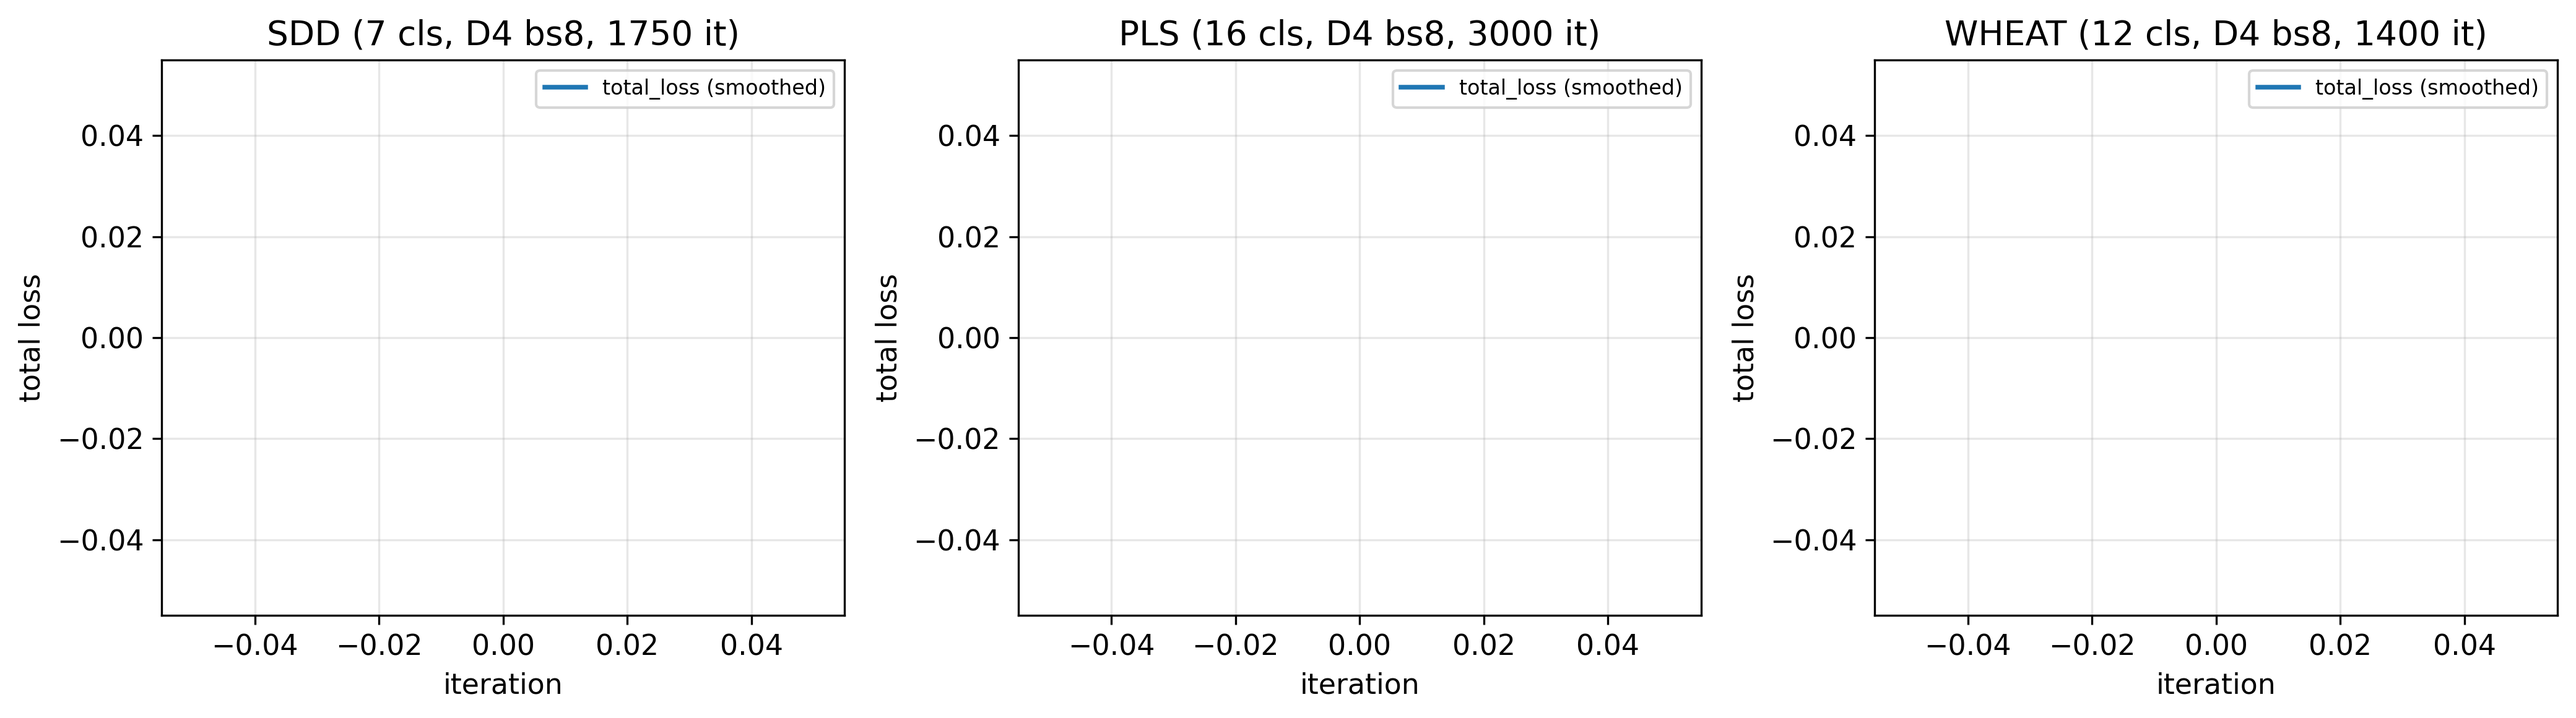
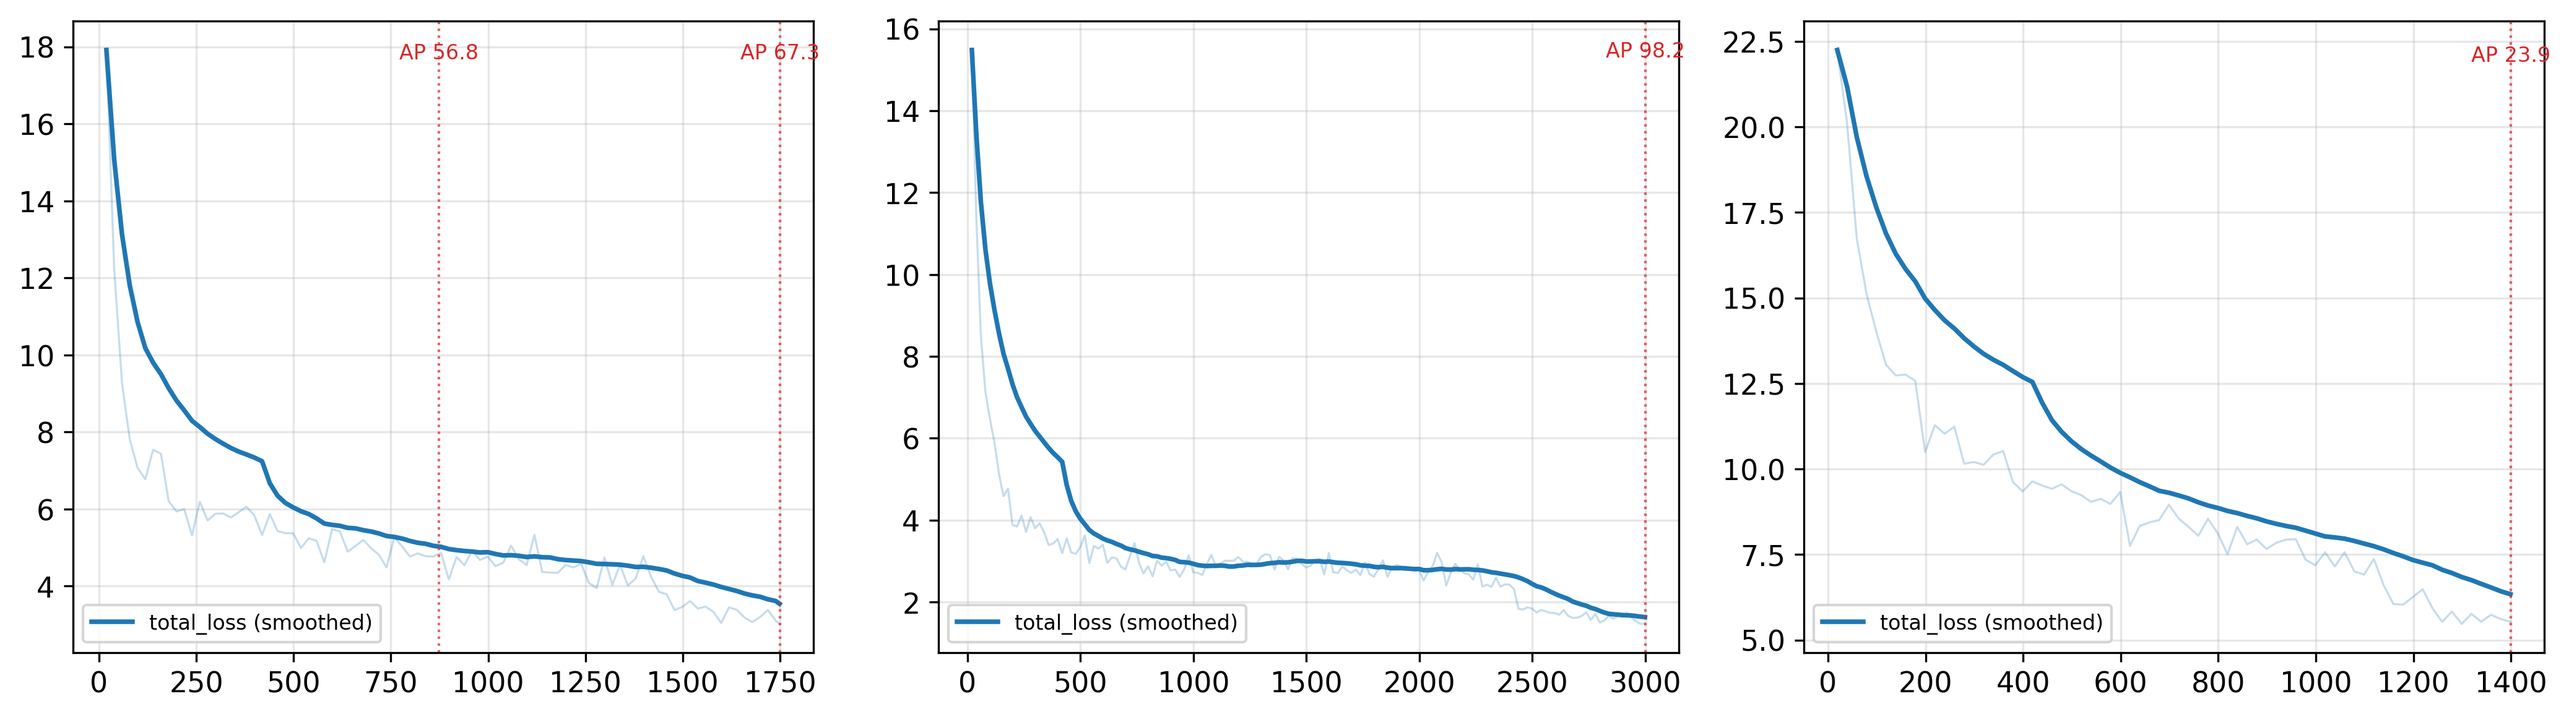
fix(fig): read metrics.json instead of text log.txt; fig2/fig3 now have curves + eval AP annotations

diff --git a/scripts/make_figures.py b/scripts/make_figures.py
@@ -61,8 +61,12 @@ fig.savefig(f"{FIG}/fig1_ap_nfe_curves.png", bbox_inches="tight")
 print("fig1 saved")
 
 # ============ 图 3：训练 LOSS 曲线对比（D4 策略三个数据集 + bs2 对照） ============
-def load_metrics(path):
-    """metrics.json 每行一个 JSON 记录；time>0 过滤 eval 行。"""
+def load_metrics(output_dir):
+    """读 detectron2 的 metrics.json（每行一个 JSON 记录）。
+
+    注意：log.txt 是纯文本日志（无 JSON），fig3 首版误读导致空图。
+    """
+    path = os.path.join(output_dir, "metrics.json")
     its, losses, evals = [], [], []
     with open(path) as f:
         for line in f:
@@ -83,30 +87,31 @@ def smooth(v, k=20):
 
 fig, axes = plt.subplots(1, 3, figsize=(14, 4))
 specs = [
-    ("SDD (7 cls, D4 bs8, 1750 it)", f"{ROOT}/output/lab/sdd.res50.bs8/log.txt"),
-    ("PLS (16 cls, D4 bs8, 3000 it)", f"{ROOT}/output/lab/pls.res50.bs8/log.txt"),
-    ("WHEAT (12 cls, D4 bs8, 1400 it)", f"{ROOT}/output/lab/wheat.res50.bs8/log.txt"),
+    ("SDD (7 cls, D4 bs8, 1750 it)", f"{ROOT}/output/lab/sdd.res50.bs8"),
+    ("PLS (16 cls, D4 bs8, 3000 it)", f"{ROOT}/output/lab/pls.res50.bs8"),
+    ("WHEAT (12 cls, D4 bs8, 1400 it)", f"{ROOT}/output/lab/wheat.res50.bs8"),
 ]
 for ax, (title, p) in zip(axes, specs):
-    if not os.path.exists(p):
+    if not os.path.exists(os.path.join(p, "metrics.json")):
         ax.set_title(title + "\n(missing)"); continue
     its, losses, evals = load_metrics(p)
     ax.plot(its, losses, alpha=0.25, lw=0.8, color="#1f77b4")
     ax.plot(its, smooth(losses), lw=1.8, color="#1f77b4", label="total_loss (smoothed)")
+    # eval AP 标注：AP 与 loss 量级不同，画在轴顶部（竖线 + 文本）
     for it, vap in evals:
-        ax.axvline(it, color="#d62728", ls=":", lw=0.8, alpha=0.6)
-        ax.annotate(f"AP {vap:.1f}", (it, ax.get_ylim()[1]), fontsize=7,
-                    rotation=90, va="top", color="#d62728")
-    ax.set_title(title); ax.set_xlabel("iteration"); ax.set_ylabel("total loss")
+        ax.axvline(it, color="#d62728", ls=":", lw=1.0, alpha=0.7)
+        ax.text(it, ax.get_ylim()[1] * 0.97, f"AP {vap:.1f}", fontsize=8,
+                color="#d62728", ha="center", va="top")
     ax.grid(alpha=0.3); ax.legend(fontsize=8)
 fig.tight_layout()
 fig.savefig(f"{FIG}/fig2_training_loss.png", bbox_inches="tight")
 print("fig2 saved")
 
 # ============ 图 4：bs2(v1.0) vs bs8(D4) 训练对照（SDD） ============
-p_old = f"{ROOT}/output/lab/sdd.res50/log.txt"
-p_new = f"{ROOT}/output/lab/sdd.res50.bs8/log.txt"
-if os.path.exists(p_old) and os.path.exists(p_new):
+p_old = f"{ROOT}/output/lab/sdd.res50"
+p_new = f"{ROOT}/output/lab/sdd.res50.bs8"
+if os.path.exists(os.path.join(p_old, "metrics.json")) and os.path.exists(
+        os.path.join(p_new, "metrics.json")):
     fig, ax = plt.subplots(figsize=(7, 4.2))
     i1, l1, e1 = load_metrics(p_old)
     i2, l2, e2 = load_metrics(p_new)
@@ -119,7 +124,7 @@ if os.path.exists(p_old) and os.path.exists(p_new):
     for it, vap in e2:
         ax.annotate(f"{vap:.1f}", (it, vap), fontsize=8, color="#d62728",
                     xytext=(4, 4), textcoords="offset points")
-    ax.set_xlabel("images seen (thousands) = iter x bs")
+    ax.set_xlabel("images seen = iter x batch size")
     ax.set_ylabel("total loss")
     ax.set_title("D4 training strategy: bs2 vs bs8 (SDD)")
     ax.grid(alpha=0.3); ax.legend(fontsize=9)
